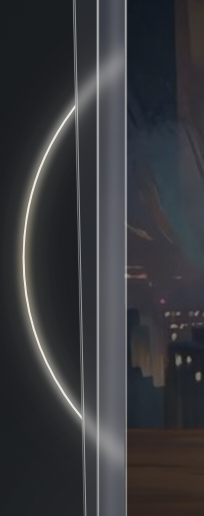
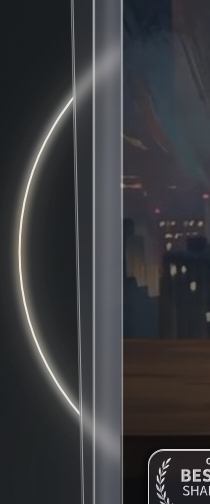
Raise the right light circle and lower the left one.
Offset each side arc from the frame's midpoint so the pair is no longer mirrored, keeping both tips on the flat glass edge.

diff --git a/assets/js/app.js b/assets/js/app.js
@@ -479,14 +479,24 @@
       dy = chordRoom;
       sideR = dy / 0.92;
     }
-    const cySide = Math.round((vpTop + vpBottom) / 2);
-    const y1 = Math.round(cySide - dy);
-    const y2 = Math.round(cySide + dy);
+    const cySide = (vpTop + vpBottom) / 2;
+    const vpH = vpBottom - vpTop;
+    // Right circle sits higher, left sits lower. The shift stops once a tip
+    // would leave the flat side of the frame and enter the corner radius.
+    const corner = isMobile ? 36 : 48;
+    const slack = Math.max(0, vpH / 2 - dy - corner);
+    const shift = Math.min(Math.round(vpH * (isMobile ? 0.1 : 0.11)), Math.floor(slack));
+    const rightCy = Math.round(cySide - shift);
+    const leftCy = Math.round(cySide + shift);
     sideR = Math.round(sideR);
+    const leftY1 = Math.round(leftCy - dy);
+    const leftY2 = Math.round(leftCy + dy);
+    const rightY1 = Math.round(rightCy - dy);
+    const rightY2 = Math.round(rightCy + dy);
 
     const topD = `M ${cx - rTop} ${cy} A ${rTop} ${rTop} 0 0 1 ${cx + rTop} ${cy}`;
-    const leftD = `M ${lx} ${y1} A ${sideR} ${sideR} 0 0 0 ${lx} ${y2}`;
-    const rightD = `M ${rx} ${y1} A ${sideR} ${sideR} 0 0 1 ${rx} ${y2}`;
+    const leftD = `M ${lx} ${leftY1} A ${sideR} ${sideR} 0 0 0 ${lx} ${leftY2}`;
+    const rightD = `M ${rx} ${rightY1} A ${sideR} ${sideR} 0 0 1 ${rx} ${rightY2}`;
 
     svg.innerHTML = `
       <path d="${leftD}" fill="none" stroke="url(#champagne-arc-grad-vert)" stroke-width="5.5" stroke-linecap="round" class="caustic-arc caustic-arc--left" />
